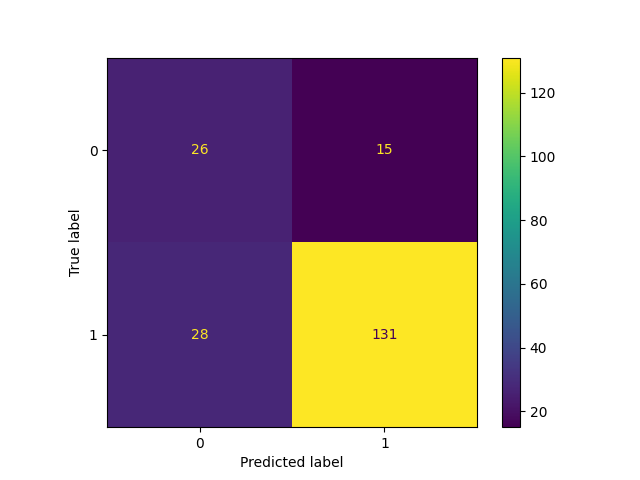
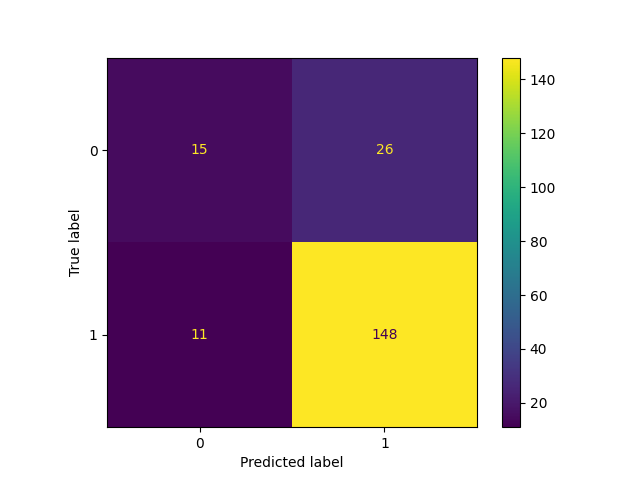
add task 3 and rerun task 2

diff --git a/task_3.py b/task_3.py
@@ -1,0 +1,86 @@
+import pandas as pd
+from sklearn.model_selection import train_test_split
+from sklearn.ensemble import RandomForestClassifier
+from sklearn.metrics import classification_report, confusion_matrix, accuracy_score, precision_score, f1_score, recall_score, ConfusionMatrixDisplay
+from sklearn.compose import ColumnTransformer
+from sklearn.preprocessing import OneHotEncoder
+from sklearn.pipeline import Pipeline
+from sklearn.model_selection import GridSearchCV
+import matplotlib.pyplot as plt
+
+
+df = pd.read_csv("customer_churn_cleaned.csv")
+target_key = "Churn"
+if target_key not in df.columns:
+    raise ValueError(f"Target key '{target_key}' not found in the dataset.")
+
+X = df.drop(columns=[target_key]) # churn is our target variable
+y = df[target_key]
+
+# Split
+X_train, X_test, y_train, y_test = train_test_split(
+    X, y, test_size=0.2, random_state=42, stratify=y
+)
+
+cat_cols = X.select_dtypes(include=["object", "category"]).columns
+num_cols = X.columns.difference(cat_cols)
+
+preprocess = ColumnTransformer(
+    transformers=[
+        ("cat", OneHotEncoder(handle_unknown="ignore"), cat_cols),
+        ("num", "passthrough", num_cols),
+    ]
+)
+
+
+clf = Pipeline(steps=[
+    ("preprocess", preprocess),
+    ("model", RandomForestClassifier(random_state=42))
+])
+
+print("Training Random Forest Classifier...")
+clf.fit(X_train, y_train)
+
+predictions = clf.predict(X_test)
+
+importances = clf.named_steps["model"].feature_importances_
+feature_names = clf.named_steps["preprocess"].get_feature_names_out()
+feature_importance_df = pd.DataFrame({
+    "Feature": feature_names,
+    "Importance": importances
+}).sort_values(by="Importance", ascending=False)
+
+
+
+
+
+print(classification_report(y_test, predictions))
+print("Accuracy:", accuracy_score(y_test, predictions))
+print("Precision:", precision_score(y_test, predictions))
+print("Recall:", recall_score(y_test, predictions))
+print("F1 Score:", f1_score(y_test, predictions))
+cm = confusion_matrix(y_test, predictions)
+disp = ConfusionMatrixDisplay(confusion_matrix=cm)
+plt.title("Confusion Matrix for Random Forest Classifier")
+disp.plot()
+plt.savefig("figures/random_forest_confusion_matrix.png")
+plt.show()
+
+# Plot the results
+fig, ax = plt.subplots()
+feature_importance_df.set_index("Feature")["Importance"].plot.bar(ax=ax)
+ax.set_title("Feature Importances (MDI)")
+ax.set_ylabel("Mean decrease in impurity")
+fig.tight_layout()
+plt.savefig("figures/random_forest_feature_importance.png")
+plt.show()
+
+with open("results_random.txt", "w") as f:
+    f.write("Random Forest Classifier Results\n")
+    f.write(str(classification_report(y_test, predictions)))
+    f.write(f"\nAccuracy: {accuracy_score(y_test, predictions)}")
+    f.write(f"\nPrecision: {precision_score(y_test, predictions)}")
+    f.write(f"\nRecall: {recall_score(y_test, predictions)}")
+    f.write(f"\nF1 Score: {f1_score(y_test, predictions)}")
+    f.write("\n\nFeature Importances:\n")
+    f.write(feature_importance_df.to_string(index=False))

diff --git a/task_2.py b/task_2.py
@@ -38,7 +38,7 @@ clf = Pipeline(steps=[
 ])
 
 param_grid = {
-    "model__max_depth": [3, 5, 7, 10],
+    "model__max_depth": [3,4,5, 6,7, 10],
     "model__min_samples_split": [2, 5, 10],
     "model__min_samples_leaf": [1, 2, 4]
 }
